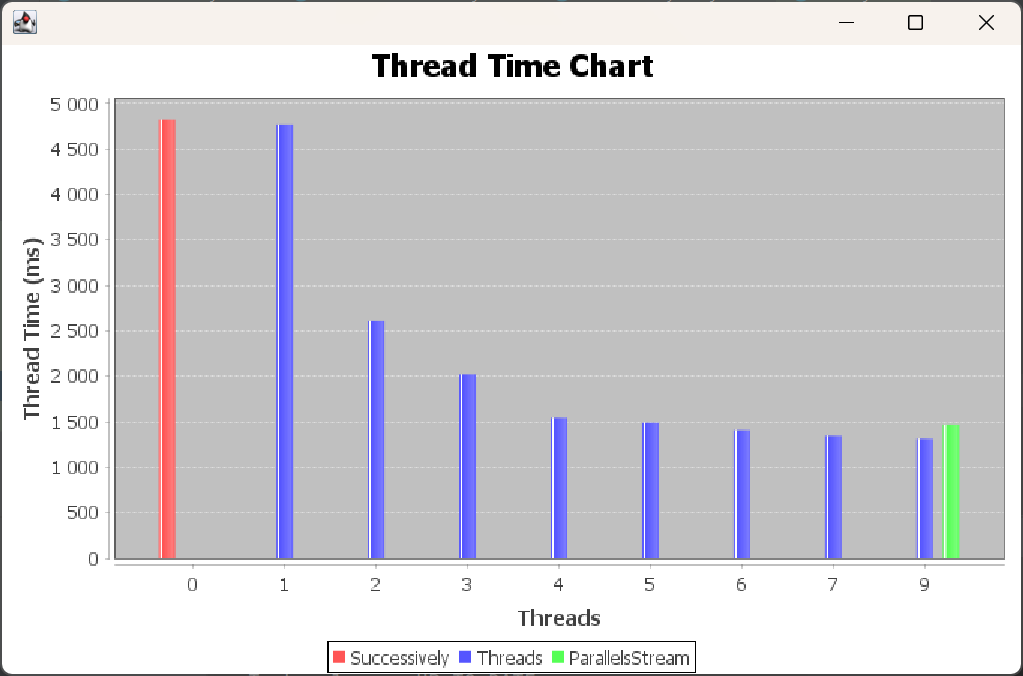
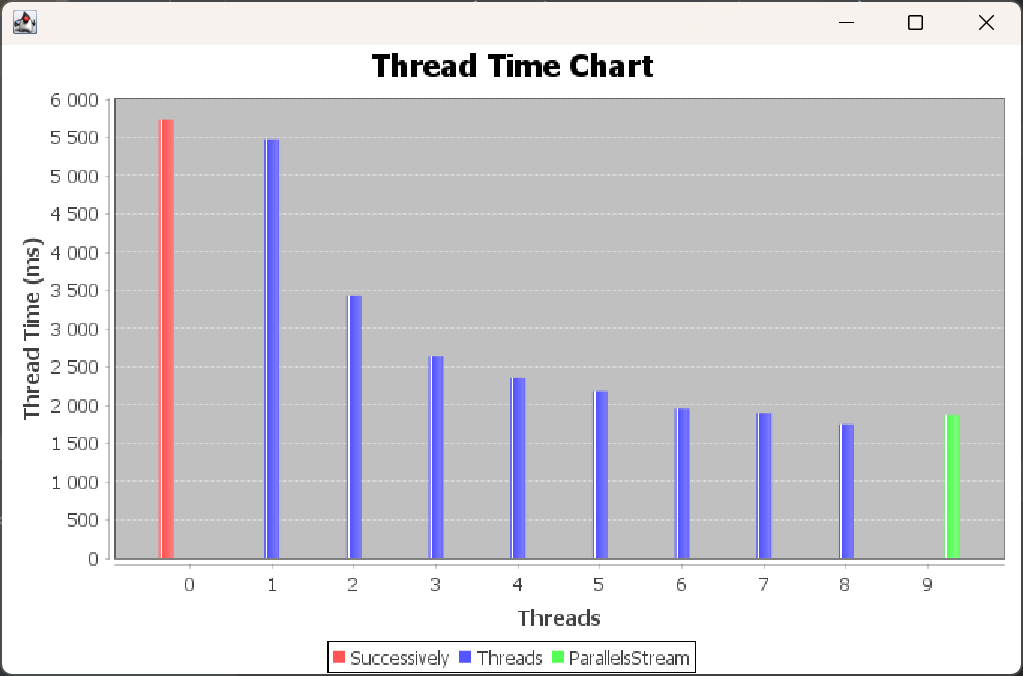
fixing

diff --git a/Task-2-1-1/src/test/java/nsu/ru/plodushcheva/Chart.java b/Task-2-1-1/src/test/java/nsu/ru/plodushcheva/Chart.java
@@ -49,7 +49,7 @@ public class Chart {
         double duration7 = func7();
         dataset.addValue(duration7, thread, "7");
         double duration8 = func8();
-        dataset.addValue(duration8, thread, "9");
+        dataset.addValue(duration8, thread, "8");
 
         double duration9 = func9();
         dataset.addValue(duration9, ps, "9");
